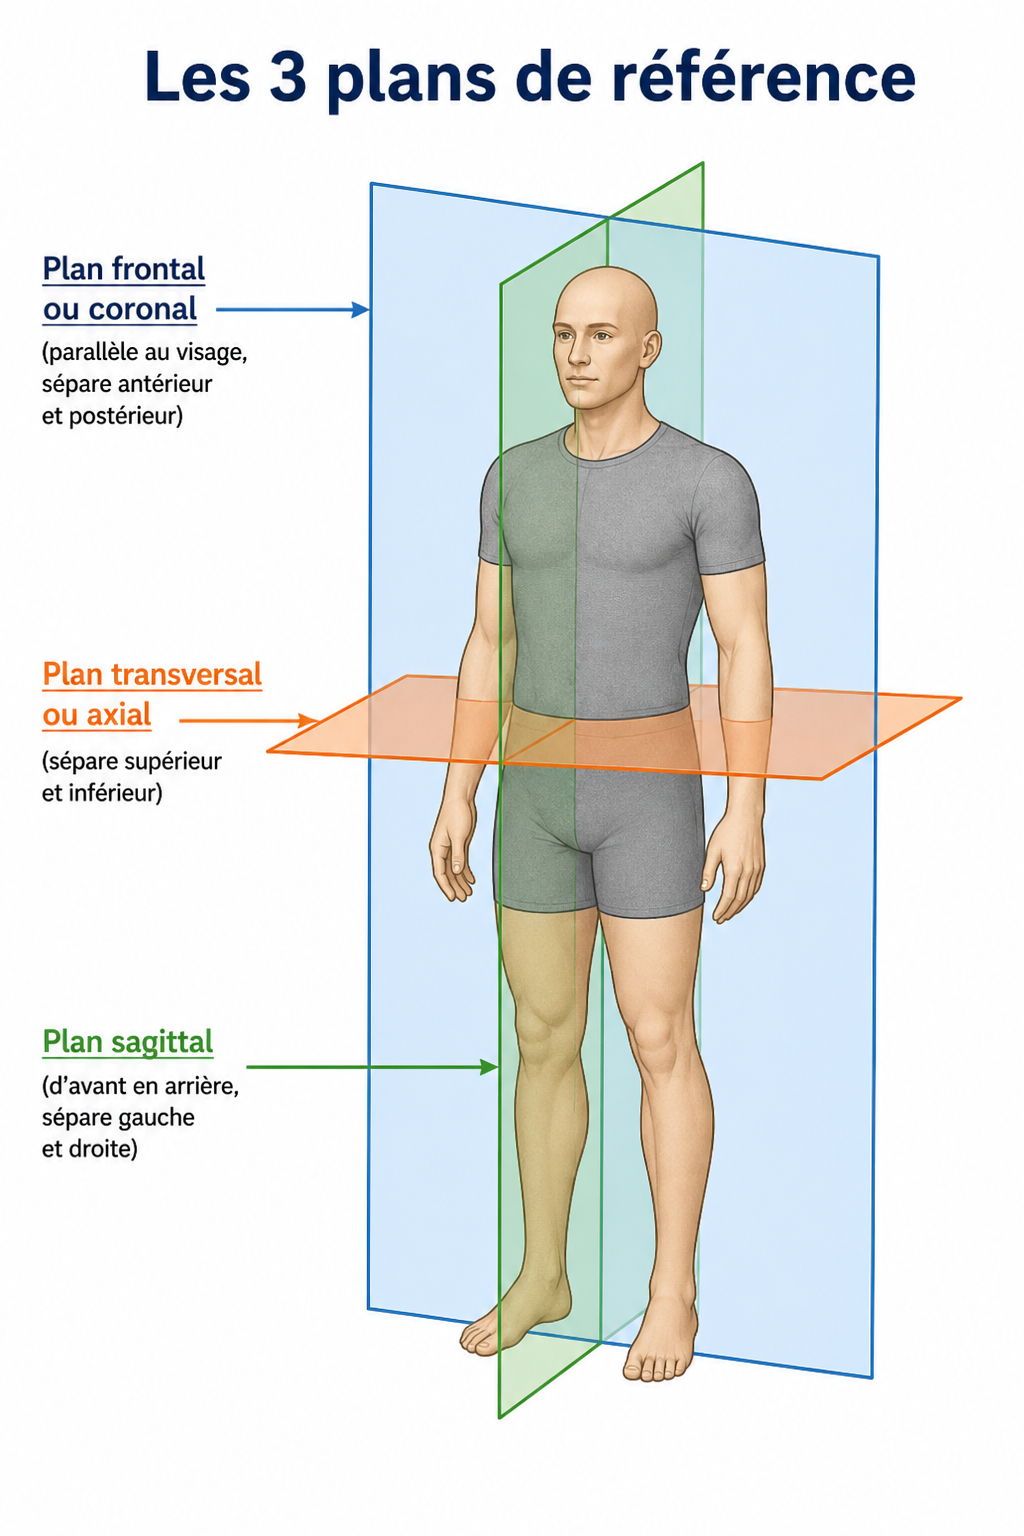
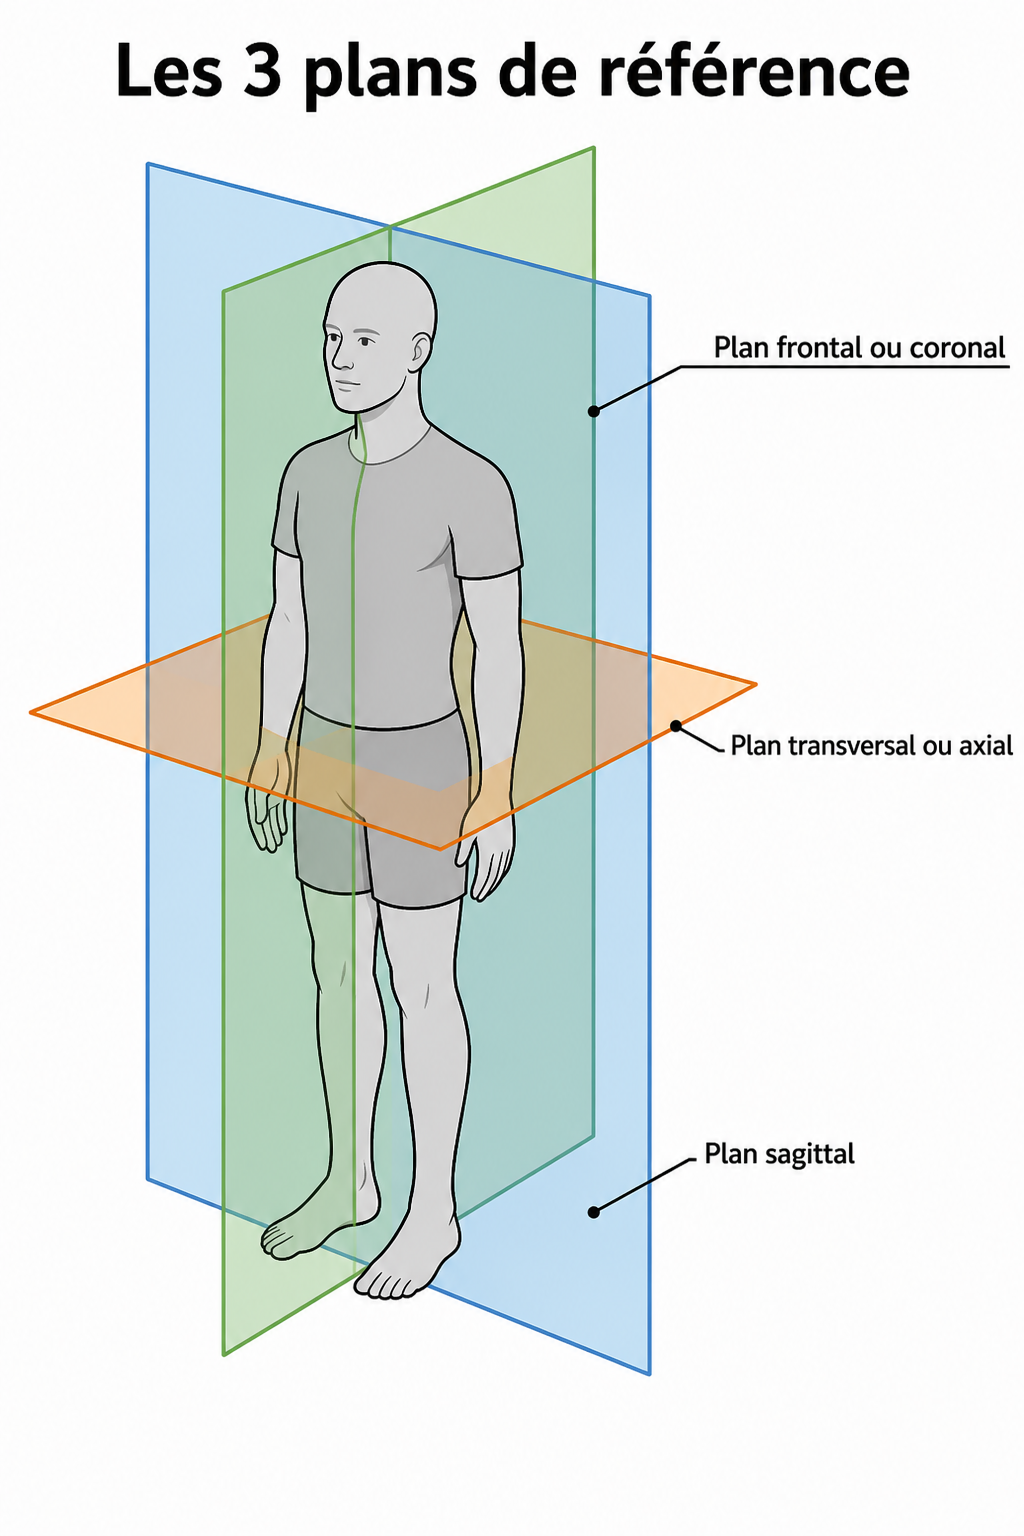
ch01: restore original plan schemas (1011f5c)

diff --git a/data/flash/ch01.js b/data/flash/ch01.js
@@ -63,9 +63,9 @@
     { id: "FC-ANAT-01-S05", chapter: "01", priority: "P2", kind: "schema", front: "Schéma — Morphologie interne", back: "Morphologie interne", frontImg: "matiere/anatomie/img/ch01/blank/05_morpho_interne_coeur.png", backImg: "matiere/anatomie/img/ch01/05_morpho_interne_coeur.png" },
     { id: "FC-ANAT-01-S06", chapter: "01", priority: "P2", kind: "schema", front: "Schéma — Régions du corps", back: "Régions du corps", frontImg: "matiere/anatomie/img/ch01/blank/06_regions_corps.png", backImg: "matiere/anatomie/img/ch01/06_regions_corps.png" },
     { id: "FC-ANAT-01-S07", chapter: "01", priority: "P2", kind: "schema", front: "Schéma — Cavités", back: "Cavités", frontImg: "matiere/anatomie/img/ch01/blank/07_cavites.png", backImg: "matiere/anatomie/img/ch01/07_cavites.png" },
-    { id: "FC-ANAT-01-S08", chapter: "01", priority: "P1", kind: "schema", front: "Schéma — Trois plans", back: "Trois plans", frontImg: "matiere/anatomie/img/ch01/blank/08_trois_plans.png?v=gen2", backImg: "matiere/anatomie/img/ch01/08_trois_plans.png?v=gen2" },
-    { id: "FC-ANAT-01-S09", chapter: "01", priority: "P1", kind: "schema", front: "Schéma — Coupe frontale", back: "Coupe frontale", frontImg: "matiere/anatomie/img/ch01/blank/09_coupe_frontale.png?v=gen2", backImg: "matiere/anatomie/img/ch01/09_coupe_frontale.png?v=gen2" },
-    { id: "FC-ANAT-01-S10", chapter: "01", priority: "P1", kind: "schema", front: "Schéma — Coupe sagittale", back: "Coupe sagittale", frontImg: "matiere/anatomie/img/ch01/blank/10_coupe_sagittale.png?v=gen2", backImg: "matiere/anatomie/img/ch01/10_coupe_sagittale.png?v=gen2" },
+    { id: "FC-ANAT-01-S08", chapter: "01", priority: "P1", kind: "schema", front: "Schéma — Trois plans", back: "Trois plans", frontImg: "matiere/anatomie/img/ch01/blank/08_trois_plans.png?v=restore1", backImg: "matiere/anatomie/img/ch01/08_trois_plans.png?v=restore1" },
+    { id: "FC-ANAT-01-S09", chapter: "01", priority: "P1", kind: "schema", front: "Schéma — Coupe frontale", back: "Coupe frontale", frontImg: "matiere/anatomie/img/ch01/blank/09_coupe_frontale.png?v=restore1", backImg: "matiere/anatomie/img/ch01/09_coupe_frontale.png?v=restore1" },
+    { id: "FC-ANAT-01-S10", chapter: "01", priority: "P1", kind: "schema", front: "Schéma — Coupe sagittale", back: "Coupe sagittale", frontImg: "matiere/anatomie/img/ch01/blank/10_coupe_sagittale.png?v=restore1", backImg: "matiere/anatomie/img/ch01/10_coupe_sagittale.png?v=restore1" },
     { id: "FC-ANAT-01-S11", chapter: "01", priority: "P1", kind: "schema", front: "Schéma — Coupe axiale", back: "Coupe axiale", frontImg: "matiere/anatomie/img/ch01/blank/11_coupe_axiale.png", backImg: "matiere/anatomie/img/ch01/11_coupe_axiale.png" },
     { id: "FC-ANAT-01-S12", chapter: "01", priority: "P1", kind: "schema", front: "Schéma — Orientation axiale", back: "Orientation axiale", frontImg: "matiere/anatomie/img/ch01/blank/12_orientation_axiale.png", backImg: "matiere/anatomie/img/ch01/12_orientation_axiale.png" }
   ];

diff --git a/matiere/anatomie/ch01.html b/matiere/anatomie/ch01.html
@@ -199,7 +199,7 @@
       <div class="callout hot"><strong>Souvent tombé</strong> Section la plus dense du cours.</div>
 
       <figure class="schema">
-        <img src="./img/ch01/08_trois_plans.png?v=gen2" alt="Trois plans" />
+        <img src="./img/ch01/08_trois_plans.png?v=restore1" alt="Trois plans" />
       </figure>
 
       <div class="label-quiz" data-labels='[["vertical"],["front","face ventrale"],["vertical"],["droite et gauche","d et g","2 moities"],["centre du corps","centre"],["egales mais non symetriques","egales non symetriques"],["axial","transversal"],["perpendiculaire a laxe vertical","perpendiculaire"],["dessous"],["gauche de l image","gauche de limage","a gauche","gauche"]]'>
@@ -207,13 +207,13 @@
           <p>Les 3 plans sont <strong>perpendiculaires entre eux</strong>.</p>
           <h3>Frontal / coronal <span class="tag">⭐</span></h3>
           <figure class="schema">
-            <img src="./img/ch01/09_coupe_frontale.png?v=gen2" alt="Coupe frontale" />
+            <img src="./img/ch01/09_coupe_frontale.png?v=restore1" alt="Coupe frontale" />
           </figure>
           <p>Plan <span class="slot"><span class="drop"></span></span> <span class="tag">⭐</span>, parallèle au <span class="slot"><span class="drop"></span></span> / à la face ventrale <span class="tag">⭐</span>. Se déplace d’avant en arrière.</p>
 
           <h3>Sagittal <span class="tag">⭐</span></h3>
           <figure class="schema">
-            <img src="./img/ch01/10_coupe_sagittale.png?v=gen2" alt="Coupe sagittale" />
+            <img src="./img/ch01/10_coupe_sagittale.png?v=restore1" alt="Coupe sagittale" />
           </figure>
           <p>Plan aussi <span class="slot"><span class="drop"></span></span> <span class="tag">⭐</span> · divise le corps en moitiés <span class="slot"><span class="drop"></span></span> <span class="tag">⭐</span> · se déplace de médial en latéral.</p>
           <p>Sagittal <strong>médian</strong> : passe par le <span class="slot"><span class="drop"></span></span> <span class="tag">⭐</span> · moitiés <span class="slot"><span class="drop"></span></span> <span class="tag">⭐</span>.</p>
